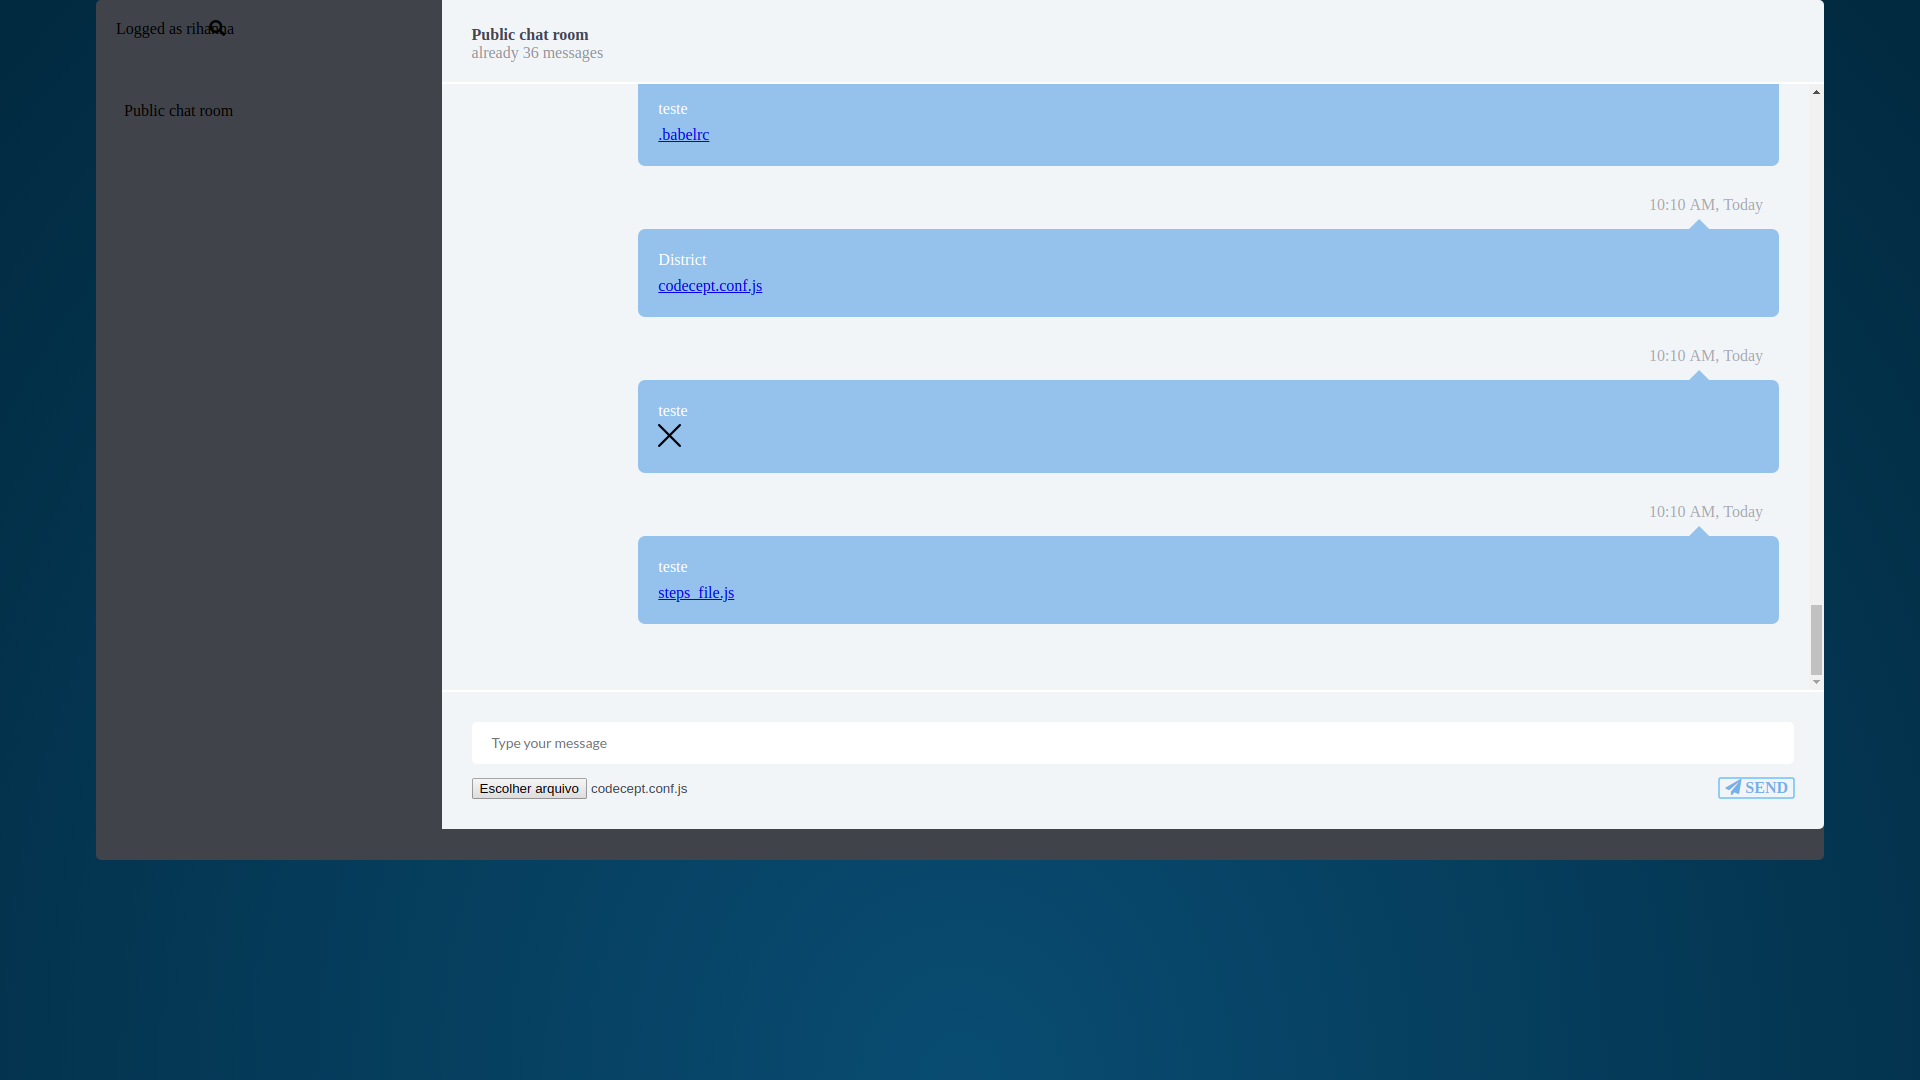
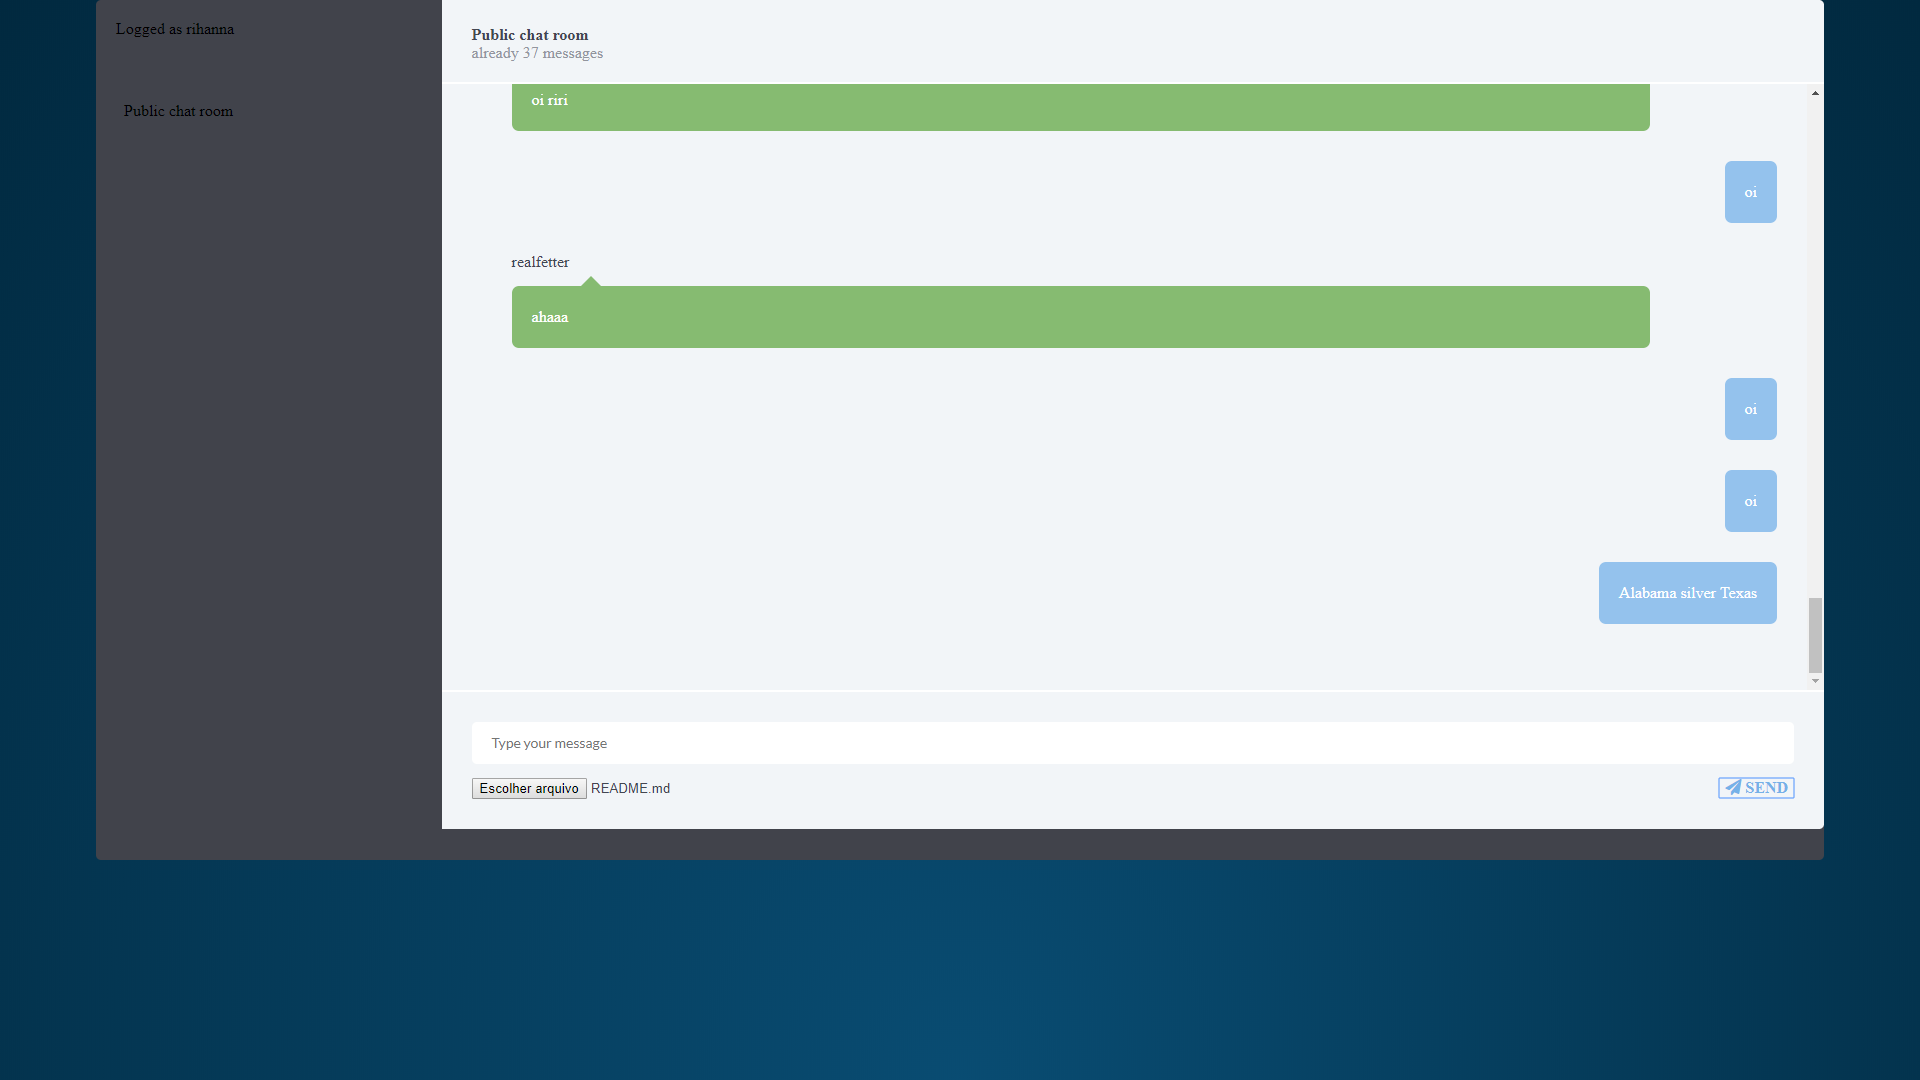
socket.io client fix

Changed region(s): [[0.25, 0.0306, 0.9375, 0.5806], [0.25, 0.7028, 0.3438, 0.7333], [0.0938, 0.0, 0.125, 0.0306]]

diff --git a/src/components/Structure/index.js b/src/components/Structure/index.js
@@ -10,36 +10,29 @@ class Structure extends React.Component {
     constructor(props) {
         super(props);
         this.handleMessageSubmit = this.handleMessageSubmit.bind(this);
-        this.callOldMessages = this.callOldMessages.bind(this);
         this.storeNewUserMessage = this.storeNewUserMessage.bind(this);
         this.saveMessageOnServer = this.saveMessageOnServer.bind(this);
         this.state = {
             messages: Array(),
-            endpoint: "localhost:4001",
             socketUserID: this.props.socket.id,
             file: null,
         };
-        this.props.socket.on('message-received', (message) => {
+        this.props.socket.emit('message-history-call');
+        this.props.socket.on('message-history-receipt', (data) => {
+            this.setState({messages:data});
+        });
+        this.props.socket.on('message-receipt', (message) => {
             this.newMessageReceived(message);
         });
-        this.callOldMessages(this);
     }
 
-    callOldMessages(component) {
-        axios.get(`http://localhost:4001/api/message/`, {
-            headers: { 'Access-Control-Allow-Origin': true },
-        })
-        .then(function (response) {
-            if (response.data) {
-                component.setState({messages:response.data});
-            }
-        })
-        .catch(function (error) {
-            console.log(error);
-        })
-        .then(function () {
-            
-        });
+    handleMessageSubmit (event) {
+        event.preventDefault();
+        const messageInput = event.target.message.value;
+        if (messageInput.trim() || this.state.file) {
+            this.storeNewUserMessage(this, messageInput);
+        }
+        event.target.message.value = '';
     }
 
     storeNewUserMessage(component, userInput) {
@@ -62,49 +55,26 @@ class Structure extends React.Component {
                 console.log(response);
                 message.file = response.data;
                 component.saveMessageOnServer(component, message);
-                //component.setState({file:null});
+                component.setState({file:null});
             })
             .catch(function (error){
                 console.log(error);
             });
         } else {
-            this.saveMessageOnServer(this, message);
+            this.saveMessageOnServer(message);
         }
         
     }
 
-    saveMessageOnServer(component, message) {
-        axios.post('http://localhost:4001/api/message/', {
-            message: message
-        })
-        .then(function (response) {
-            component.props.socket.emit('send-public-message', message);
-            const copyMessages = Object.assign([], component.state.messages);
-            copyMessages.push(message);
-            component.setState({messages:copyMessages});
-            return message;
-        })
-        .catch(function (error) {
-            console.log(error);
-        });
-    }
-
-    handleMessageSubmit (event) {
-        event.preventDefault();
-        const messageInput = event.target.message.value;
-        if (messageInput.trim() || this.state.file) {
-            this.storeNewUserMessage(this, messageInput);
-        }
-        event.target.message.value = '';
+    saveMessageOnServer(message) {
+        this.props.socket.emit('save-message', message);
     }
 
     newMessageReceived(message) {
-        if (message.senderName != this.props.userName){
-            const copyMessages = Object.assign([], this.state.messages);
-            copyMessages.push(message);
-            this.setState({messages:copyMessages});
-            return message;
-        }
+        const copyMessages = Object.assign([], this.state.messages);
+        copyMessages.push(message);
+        this.setState({messages:copyMessages});
+        return message;
     }
 
     onChooseFile(e) {      
@@ -118,7 +88,6 @@ class Structure extends React.Component {
                 <div className="people-list" id="people-list">
                     <div className="search">
                         Logged as {this.props.userName}
-                        <i className="fa fa-search"></i>
                     </div>
                     <ul className="list">
                         <li className="clearfix">

diff --git a/src/components/Login/index.js b/src/components/Login/index.js
@@ -8,12 +8,17 @@ class Login extends React.Component {
     constructor(props) {
         super(props);
         this.submitLogin = this.submitLogin.bind(this);
-        this.enterLogin = this.enterLogin.bind(this);
-        this.addUser = this.addUser.bind(this);
+        this.handleUserLogin = this.handleUserLogin.bind(this);
         this.initializeSession = this.initializeSession.bind(this);
         this.state = { 
             loginSuccesfull: false
         };
+        this.props.socket.on('status', (data) =>{
+            console.log(data);
+        });
+        this.props.socket.on('success-login', (userName) =>{
+            this.initializeSession(userName);
+        });
     }
 
     initializeSession(userName) {
@@ -24,42 +29,14 @@ class Login extends React.Component {
         this.setState({ loginSuccesfull:true });
     }
 
-    addUser(userName) {
-        axios.post('http://localhost:4001/api/user/', {
-            userName: userName
-        })
-        .then(function (response) {
-            console.log('entrou no then do addUser');
-        })
-        .catch(function (error) {
-            console.log(error);
-        });
-    }
-
-    enterLogin(component, userName) {
-        axios.get(`http://localhost:4001/api/user/${userName}`, {
-            headers: { 'Access-Control-Allow-Origin': true },
-        })
-        .then(function (response) {
-            if (response.data) {
-                component.initializeSession(userName);
-            } else {
-                component.addUser(userName);
-                component.initializeSession(userName);
-            }
-        })
-        .catch(function (error) {
-            console.log(error);
-        })
-        .then(function () {
-            
-        });
-    }
-
     submitLogin(event) {
         event.preventDefault();
         const userName = event.target.userName.value;        
-        this.enterLogin(this, userName);
+        this.handleUserLogin(userName);
+    }
+
+    handleUserLogin(userName) {
+        this.props.socket.emit('user-login', userName);
     }
 
     render() { 

diff --git a/src/components/Structure/ChatHistory/Message/index.js b/src/components/Structure/ChatHistory/Message/index.js
@@ -5,11 +5,12 @@ const Message = (props) => {
     const isMine = props.message.senderName == props.userName;
     return (
         <li className={isMine ? 'clearfix' : ''}>
-            <div className={isMine ? 'message-data align-right' : 'message-data'}>
-                <span className="message-data-time" >10:10 AM, Today</span> &nbsp; &nbsp;
-                <span className="message-data-name" >{isMine ? '' : props.message.senderName}</span>
-            </div>
-            <div className={isMine ? 'message other-message float-right' : 'message my-message'}>
+            {!isMine &&
+                <div className={'message-data'}>
+                    <span className="message-data-name" >{props.message.senderName}</span>
+                </div>
+            }
+            <div className={isMine ? 'message my-message float-right' : 'message other-message'}>
                 {props.message.text}
                 {props.message.file &&
                     <span>

diff --git a/src/components/Structure/ChatHistory/Message/style.scss b/src/components/Structure/ChatHistory/Message/style.scss
@@ -12,9 +12,23 @@ $gray: #92959E;
     font-size: 16px;
     border-radius: 7px;
     margin-bottom: 30px;
-    width: 90%;
+    min-width: 5px;
+    max-width: 90%;
     position: relative;
+}
 
+.message-data {
+    margin-bottom: 15px;
+}
+
+.message-data-time {
+    color: lighten($gray, 8%);
+    padding-left: 6px;
+}
+
+.other-message {
+    background: $green;
+    
     &:after {
         bottom: 100%;
         left: 7%;
@@ -30,26 +44,9 @@ $gray: #92959E;
     }
 }
 
-.message-data {
-    margin-bottom: 15px;
-}
-
-.message-data-time {
-    color: lighten($gray, 8%);
-    padding-left: 6px;
-}
-
 .my-message {
-    background: $green;
-}
-
-.other-message {
     background: $blue;
-
-    &:after {
-        border-bottom-color: $blue;
-        left: 93%;
-    }
+    text-align: right;
 }
 
 .message-image {
@@ -62,4 +59,8 @@ $gray: #92959E;
 
 .float-right {
     float: right;
+}
+
+.float-left {
+    float: left;
 }

diff --git a/src/components/Presentation/index.js b/src/components/Presentation/index.js
@@ -44,7 +44,7 @@ class Presentation extends React.Component {
                 {this.state.isLogged ? (
                     <Structure userName={this.state.userName} socket={this.props.socket}/>
                 ) : (
-                    <Login handleLogin={this.handleLogin} />
+                    <Login handleLogin={this.handleLogin} socket={this.props.socket}/>
                 )}
             </div>
         );
